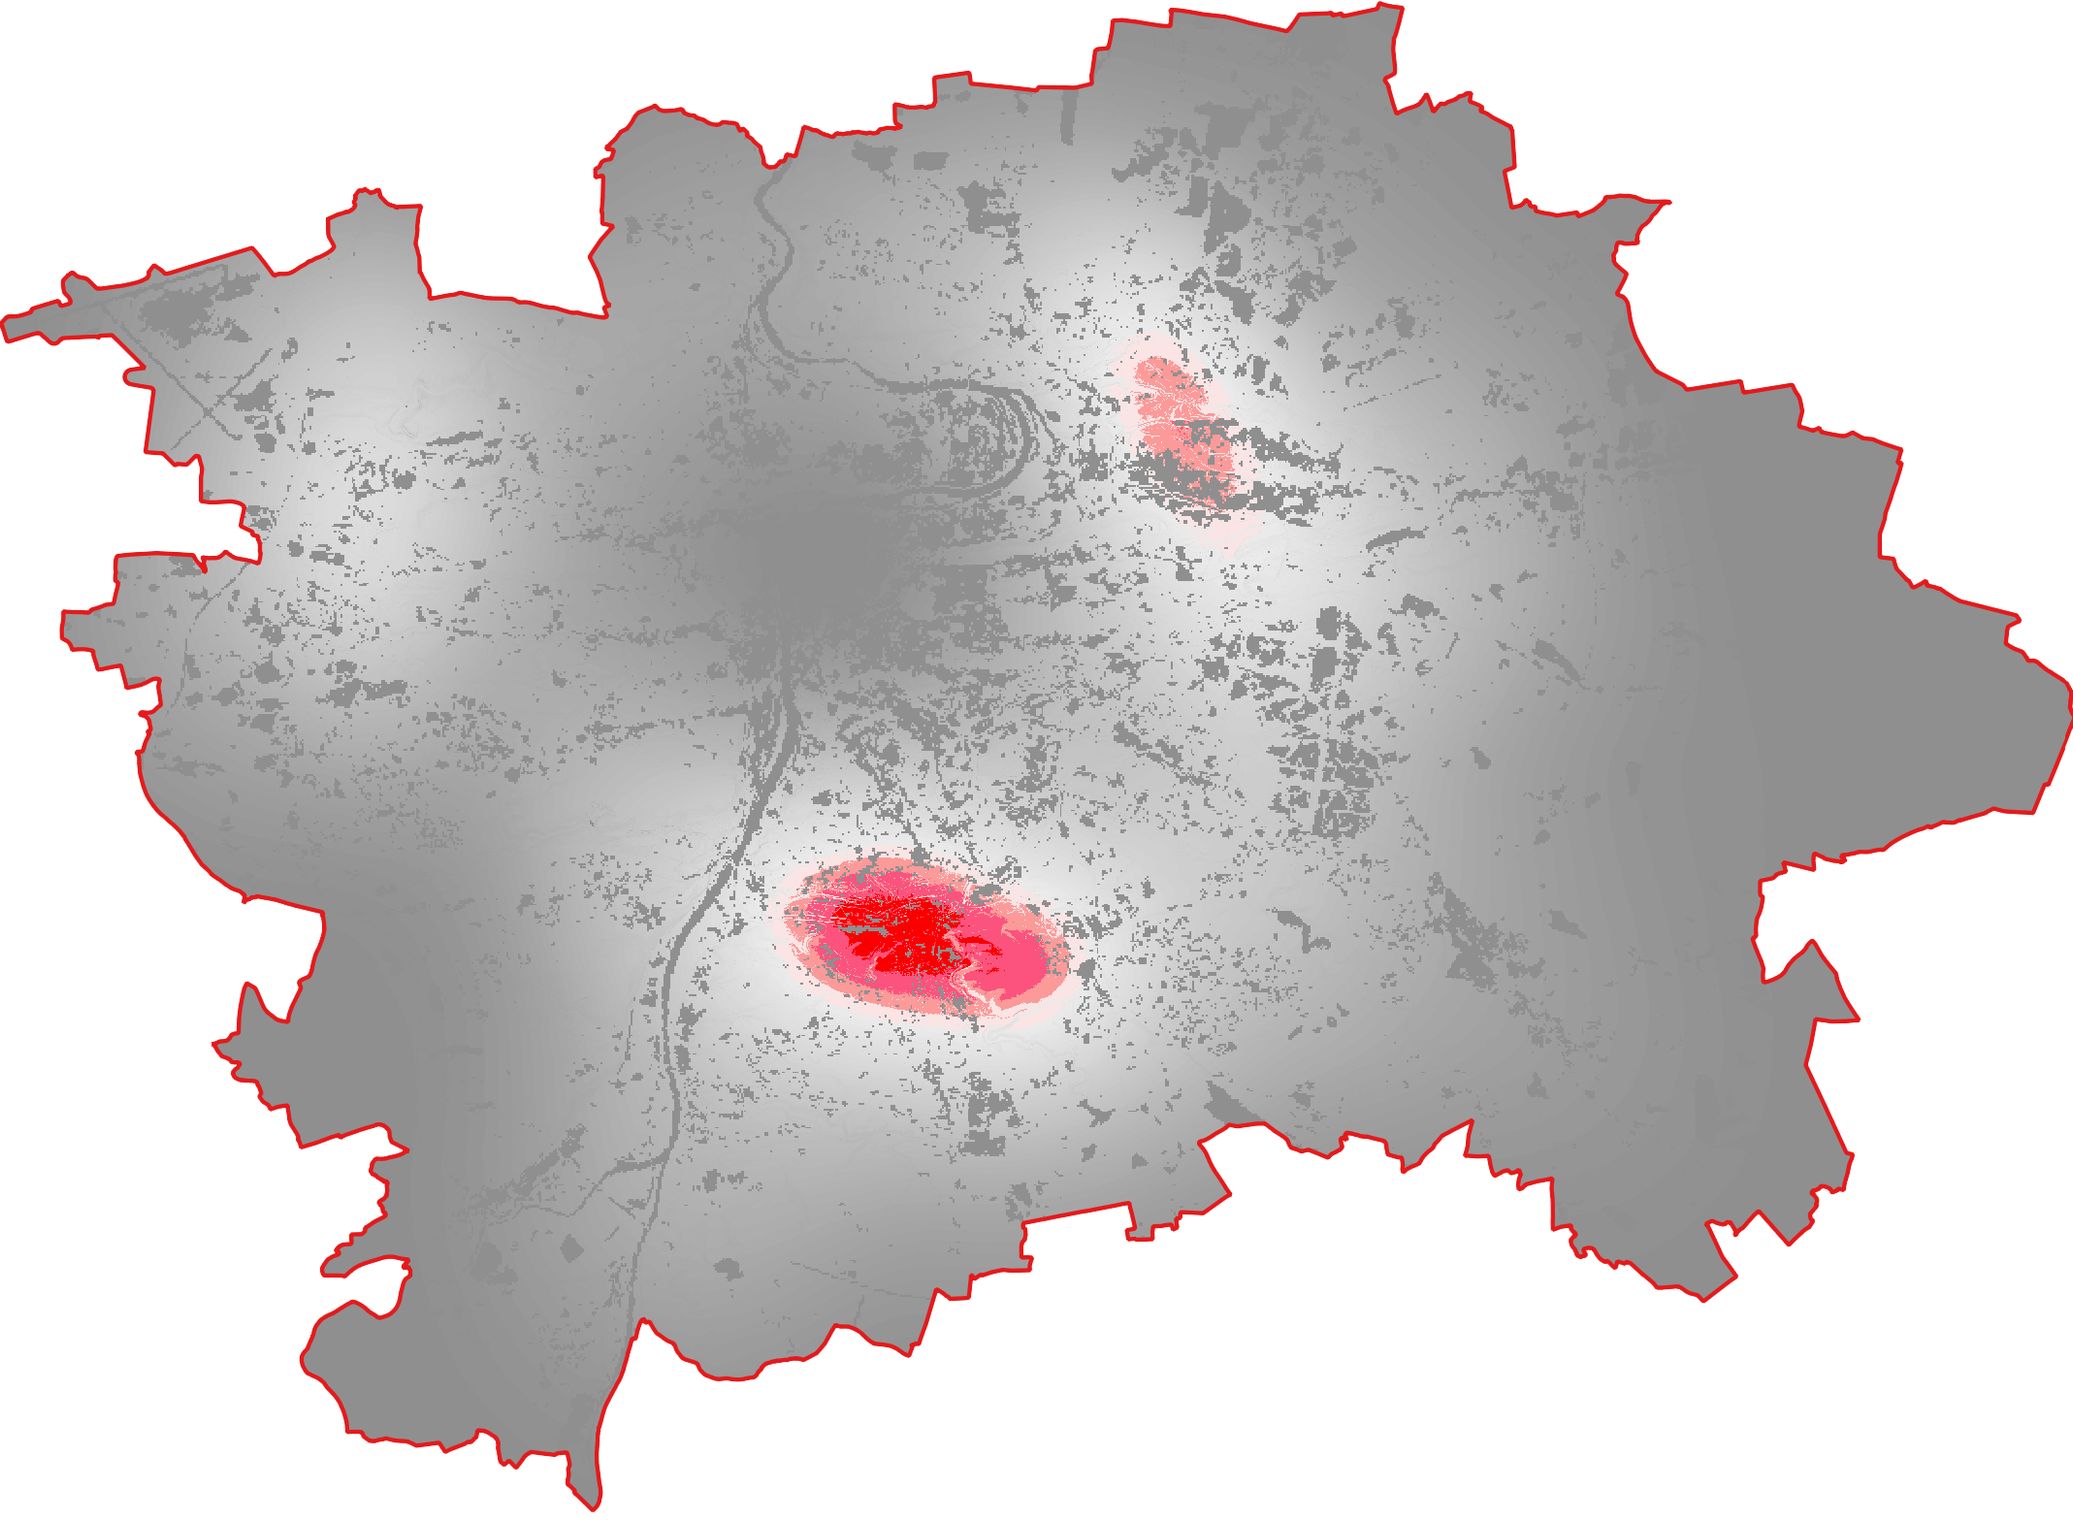
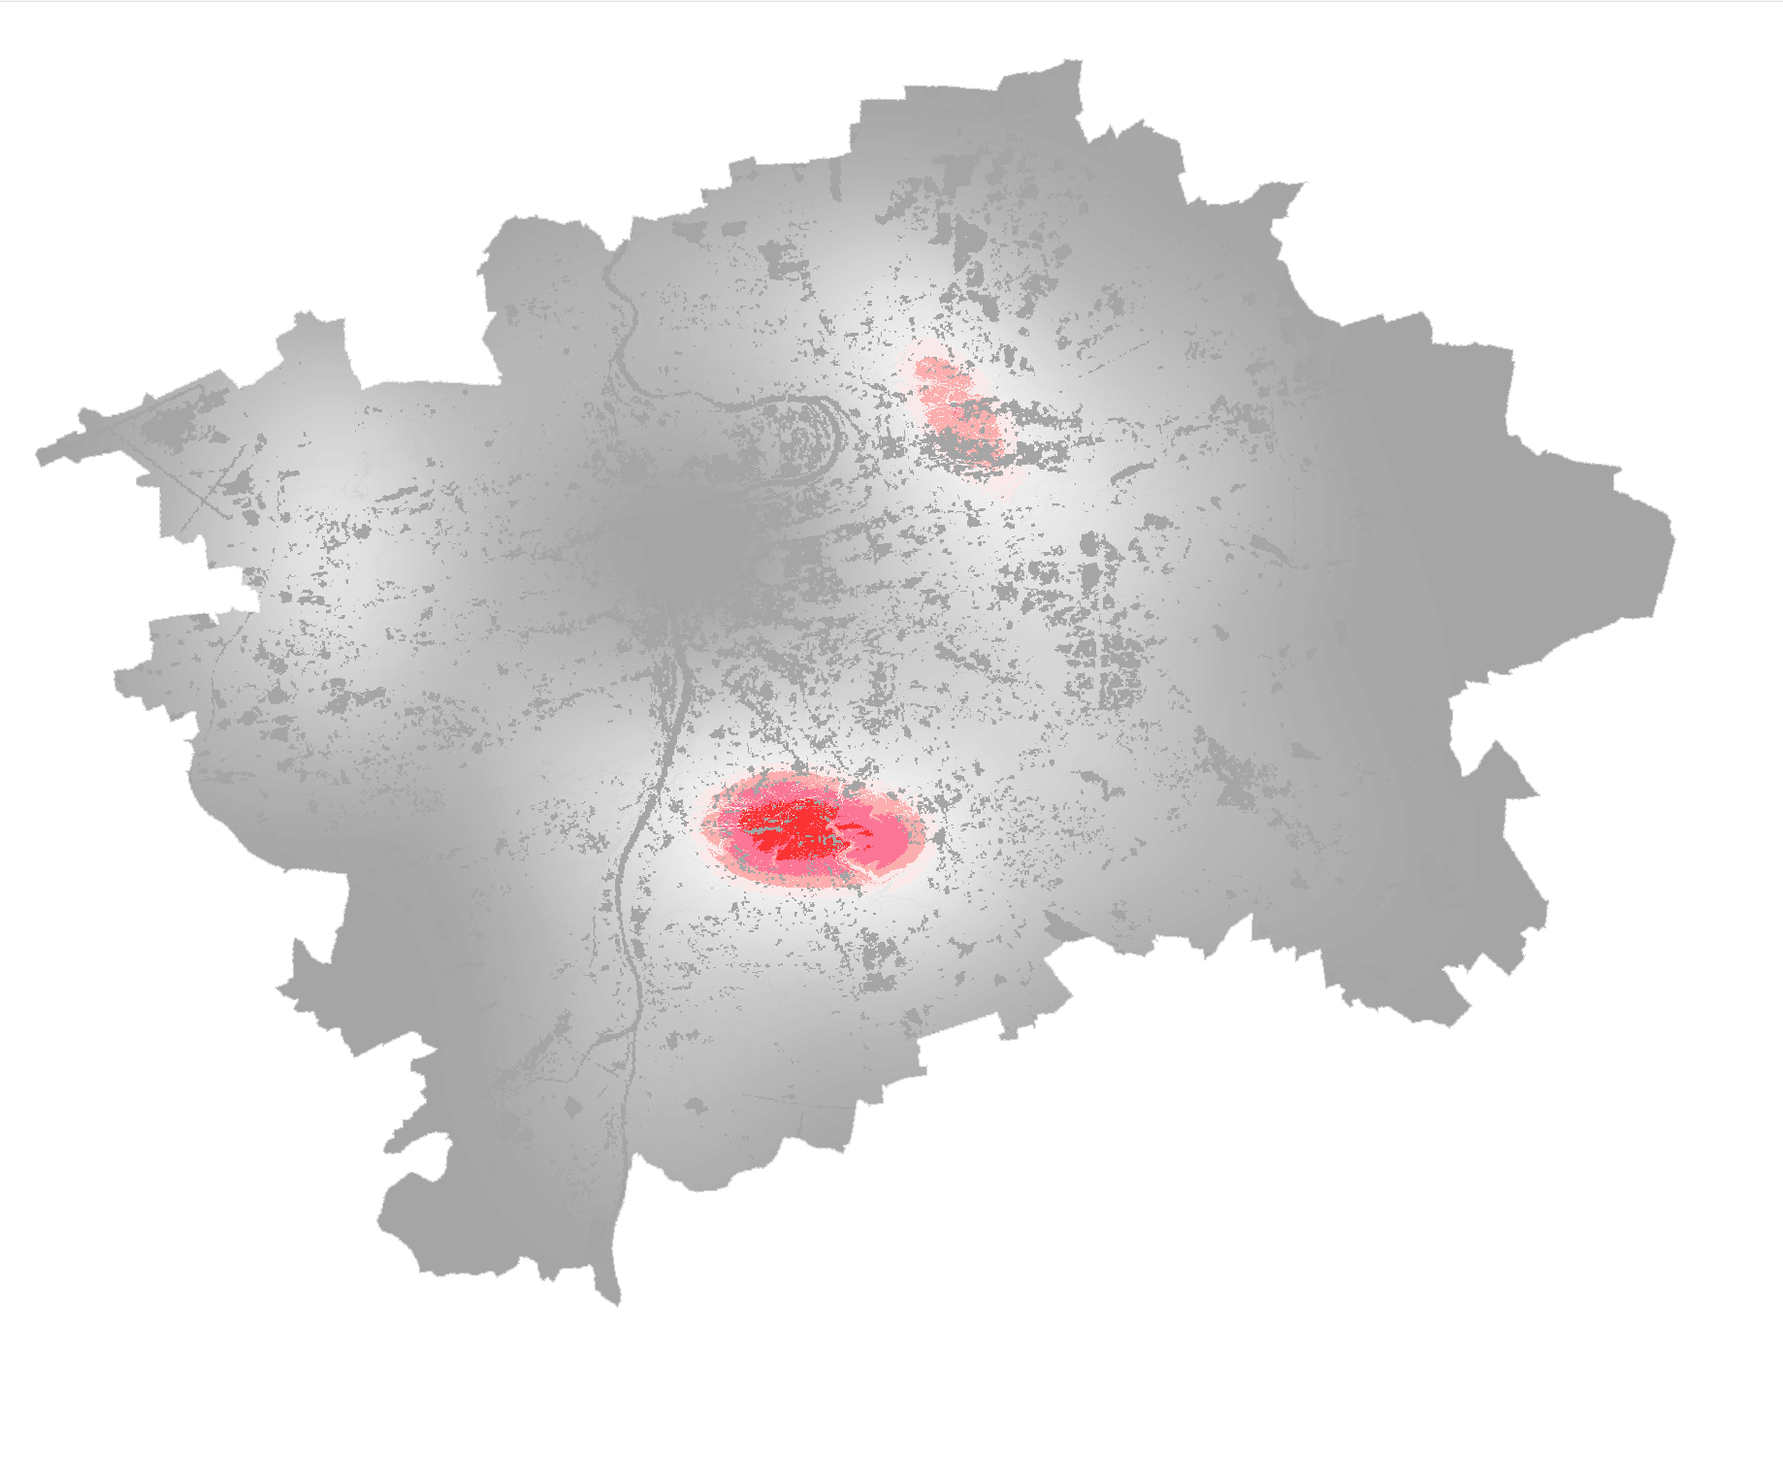
Case study extension

diff --git a/case.html b/case.html
@@ -107,6 +107,10 @@
           border-width: 0 2px 2px 0;
           transform: rotate(135deg);
         }
+        hr.solid {
+          border-top: 3px solid #bbb;
+          margin: 4em ;
+        }
         </style>
     </head>
 
@@ -116,46 +120,212 @@
                 <span class="spinner-rotate"></span>
             </div>
         </section>
+
         <div class="container">
           <h1 style="margin: 0.5em;">Case study: determining the best locations for a football stadium in Prague</h1>
+          <img src='images/case/thumb-case.png' style='width:100%; border-radius: var(--border-radius-small);'>
+        </div>
+        <hr class="solid">
+
+        <div class="container">
+          <h3 style="margin: 0.5em;">: Aim</h3>
         </div>
         <div class="container">
-            <div class="row">
+          <p>Case study: determining the best locations for a football stadium in a city of your choice</p>
+          <ul>
+            <li>Extracting geometrical data of buildings, streets or other infrastructure from a remote sensing image</li>
+            <li>Extracting location data of people or activities from big data sources (e.g. social media, traffic data, google API)</li>
+            <li>Based on 2-3 criteria, suggest a couple of locations for a football stadium</li>
+            <li>Visualize the output on a map and diagram</li>
+            <li>Visualize the output on a web-based interface</li>
+          </ul>
+        </div>
+        <hr class="solid">
 
-              <div class="col-lg-8">
-                  <div class='container' id="container-slider">
-                    <div class='img background-img' style="background-image: url('images/case/remote-sensing.png');"></div>
-                    <div class='img foreground-img' style="background-image: url('images/case/sentinel.png');width: 50%;"></div>
-                    <input type="range" min="1" max="100" value="50" class="slider" name='slider' id="slider">
-                    <div class='slider-button'></div>
-                  </div>
-              </div>
+        <div class="container">
+          <h3 style="margin: 0.5em;">: Workflow</h3>
+        </div>
+        <div class="container">
+          <img src='images/case/rs-work-flow.svg' style='width:100%; border-radius: var(--border-radius-small);'>
+        </div>
+        <hr class="solid">
 
-              <div class="col-lg-4" style="margin-top: 3em;">
-                <h3 style="margin-left: 1em;">False Color Urban RGB Composite</h1>
-                <p style="margin-left: 2em;">
-                  Data Source: Sentinel-2
-                </p>
-                <p style="margin-left: 2em;">
-                  This composite is used to visualize urbanized areas more clearly. Vegetation is visible in shades of green, while urbanized areas are represented by white, grey, or purple. [<a target="_blank" href="https://custom-scripts.sentinel-hub.com/sentinel-2/false-color-urban-rgb/">1</a>]
-                </p>
-                <p style="margin-left: 2em;">
-                  The composite:
-                  [2.5 * B12, 2.5 * B11, 2.5 * B4]
-                </p>
-                <ul style="margin-left: 2em;">
-                  <li>Band 4 - Red	0.665 (µm)</li>
-                  <li>Band 11 - SWIR 1.610 (µm)</li>
-                  <li>Band 12 - SWIR 2.190 (µm)</li>
-                </ul>
-              </div>
+        <div class="container">
+          <h3 style="margin: 0.5em;">: Data : Source : Tech</h3>
+        </div>
+        <div class="container">
+          <div class="row">
+            <div class="col-lg-6">
+              <ul>
+                <li>Satelite imagery (Sentinel-2)</li>
+                <li>Administrative boundaries</li>
+                <li>DEM</li>
+                <li>Infrastructure, POIs</li>
+                <li>Demographics</li>
+              </ul>
+              <ul>
+                <li><a href="https://apps.sentinel-hub.com/eo-browser">EO browser</a></li>
+                <li><a href="https://www.openstreetmap.org/">OpenStreetMap</a></li>
+                <li><a href="https://www.geoportalpraha.cz/en">Geoportal Prague</a></li>
+                <li><a href="https://developers.google.com/apis-explorer">Google API</a></li>
+              </ul>
+              <ul>
+                <li>desktop: QGIS, Photoshop</li>
+                <li>code: Python, JavaScript, HTML, CSS</li>
+                <li>API / Query modules: Places API (Google), OSMnx</li>
+              </ul>
+              <img src='images/case/osm-query.png' style='width:100%; margin-top: 0.8em; border-radius: var(--border-radius-small);'>
+            </div>
+            <div class="col-lg-6">
+              <img src='images/case/api-places.png' style='width:100%; border-radius: var(--border-radius-small);'>
+            </div>
+          </div>
+        </div>
+        <hr class="solid">
+
+        <div class="container">
+          <h3 style="margin: 0.5em;">: LULC Classification</h3>
+        </div>
+        <div class="container">
+          <div class="row">
+
+            <div class="col-lg-8">
+                <div class='container' id="container-slider">
+                  <div class='img background-img' style="background-image: url('images/case/remote-sensing.png');"></div>
+                  <div class='img foreground-img' style="background-image: url('images/case/sentinel.png');width: 50%;"></div>
+                  <input type="range" min="1" max="100" value="50" class="slider" name='slider' id="slider">
+                  <div class='slider-button'></div>
+                </div>
+            </div>
+
+            <div class="col-lg-4" style="margin-top: 3em;">
+              <h3 style="margin-left: 1em;">Supervised classification</h1>
+              <p style="margin-left: 2em;">
+                in remote sensing is a method of automatically categorizing pixels in a satellite or aerial image into different land cover or land use classes based on known training samples. It involves defining a set of sample classes, each with a known land cover or land use type, and using this information to train a classifier. The classifier is then applied to the entire image, using the training data to make predictions about the land cover or land use of each pixel in the image.
+              </p>
+              <p style="margin-left: 2em;">
+                <strong>False Color Urban RGB Composite:</strong> is used to visualize urbanized areas more clearly. Vegetation is visible in shades of green, while urbanized areas are represented by white, grey, or purple. [<a target="_blank" href="https://custom-scripts.sentinel-hub.com/sentinel-2/false-color-urban-rgb/">1</a>]
+              </p>
+              <ul style="margin-left: 2em;">
+                <li>Band 4 - Red	0.665 (µm)</li>
+                <li>Band 11 - SWIR 1.610 (µm)</li>
+                <li>Band 12 - SWIR 2.190 (µm)</li>
+              </ul>
+            </div>
+
+          </div>
+        </div>
+        <hr class="solid">
+
+
+        <div class="container">
+          <h3 style="margin: 0.5em;">: MCDA</h3>
+        </div>
+        <div class="container">
+          <div class="row">
+            <div class="col-lg-8">
+              <figure>
+                <img src='images/case/diagram.png' style='width:100%; border-radius: var(--border-radius-small);'>
+                <figcaption style="text-align: center;">Restricting factors: Urban, Water; Criteria: Slope, Schools, Stadiums, Transport</figcaption>
+              </figure>
+            </div>
+
+            <div class="col-lg-4" style="margin-top: 3em;">
+              <p style="margin-left: 2em;">
+                Multi-Criteria Decision Analysis (MCDA) is a systematic process for evaluating multiple options based on a set of criteria. The process involved clearly defining the decision problem and identifying the relevant criteria, which in this case were Urban areas, Water, Slope, Schools, Stadiums, and Transport. This data was then normalized to make it comparable, which was done by converting it into a standard format. The importance of each criteria was then assigned based on its significance to the decision problem. Final result was calculated using map algebra.
+              </p>
+
+              <h3 style="margin-left: 1em;">Heatmap (kernel density)</h1>
+              <p style="margin-left: 2em;">
+                A geospatial heatmap is a type of heatmap that is used to display data values on a geographical map. It is a way to represent the spatial distribution of data values by using different colors to represent different ranges of values. The heatmap provides a graphical representation of data values by using different colors to represent different ranges of values.
+              </p>
+
+              <h3 style="margin-left: 1em;">Raster normalization</h1>
+              <p style="margin-left: 2em;">
+                is a process used to standardize the values of a raster dataset. Normalization is applied to adjust the range of values in the raster data to a standard scale, making it easier to compare and perform mathematical operations with different raster datasets.
+                In raster normalization, the values of a raster image are transformed so that they fall within a specific range, such as 0 to 1 or -1 to 1. This is done by subtracting the minimum value of the raster dataset from each cell, and then dividing by the range, which is calculated as the difference between the maximum and minimum values.
+              </p>
+
+              <h3 style="margin-left: 1em;">Map algebra</h1>
+              <p style="margin-left: 2em;">
+                is a tool in geographic information systems (GIS) that allows for the integration of multiple data layers to make decisions. In a MCDA, map algebra is used to analyze multiple criteria, such as accessibility, water sources, and slopes, and to make a final decision on the best alternative. The process involves normalizing and weighting the criteria, combining them into a single map, evaluating alternatives, making a decision, and monitoring it. Map algebra makes the MCDA process more efficient and consistent.
+              </p>
 
             </div>
-        </div>
-        <div class="container">
+          </div>
+
           <div class="col-12">
               <div id="map-case"></div>
           </div>
+          <div class="container">
+            <div style="text-align: center;">
+              <input  type="range" id="sldOpacity" min="0", max="1", step="0.1" value="0.5">
+            </div>
+          </div>
+        </div>
+        <hr class="solid">
+
+        <div class="container">
+          <h3 style="margin: 0.5em;">: Site</h3>
+        </div>
+        <div class="container">
+          <div class="row">
+            <div class="col-lg-8">
+              <p>Krč is a district in the south of Prague, located in Prague 4. It became part of the city in 1922. It has 23 560 inhabitants. It is home of one of the mmost famous football club - SK Sparta Krč</p>
+              <p>Krč is served by line C of the Prague Metro. Pankrác, Budějovická and Kačerov stations all have onward bus connections to Krč. The planned line D of the Prague Metro will pass through Krč</p>
+                <img src='images/case/site-detail.png' style='width:100%; border-radius: var(--border-radius-small);'>
+            </div>
+            <div class="col-lg-4">
+              <div style="margin-left: 1em;">
+                  <img src='images/case/demographics.png' style='width:80%; border-radius: var(--border-radius-small);'>
+                  <h4 style="margin-top: 2em";>Parcel price estimation</h4>
+                  <p>30 000 000 € (160 € / m2)</p>
+                  <img src='images/case/parcel-area.png' style='width:80%; border-radius: var(--border-radius-small);'>
+              </div>
+            </div>
+          </div>
+          <div class="row">
+            <div class="col-lg-12" style="margin-top:2em;">
+              <img src='images/case/3D_grey.jpg' style='width:100%; border-radius: var(--border-radius-small);'>
+            </div>
+          </div>
+        </div>
+        <hr class="solid">
+
+        <div class="container">
+          <h3 style="margin: 0.5em;">: To be imporved</h3>
+        </div>
+        <div class="container" style="margin-bottom: 5em;">
+          <h4 style="margin-top: 2em";>Remote-sensing techniques</h4>
+          <ul>
+            <li>Better resolution</li>
+            <li>Data pre-processing</li>
+            <li>More suiteble band combination</li>
+            <li>More sofisticated classification / segmantation</li>
+          </ul>
+          <img src='images/case/rs-improve.svg' style='width:100%;'>
+
+          <h4 style="margin-top: 2em";>Criteria</h4>
+            <ul>
+              <li>Urban development experties</li>
+              <li>Well-defined problem and relevant criteria</li>
+              <li>Quantifiable and measurable criteria</li>
+              <li>Accurate and up-to-date data</li>
+              <li>Stakeholder involvement</li>
+              <li>Systematic weighting method</li>
+              <li>Transparent methodology</li>
+              <li>Continuous monitoring and revision.</li>
+            </ul>
+          <h4 style="margin-top: 2em";>Web presentation</h4>
+            <ul>
+              <li>Use visual aids</li>
+              <li>Simplify data & use clear language</li>
+              <li>Choose the right format</li>
+              <li>Make use of interactivity</li>
+              <li>Use color effectively</li>
+              <li>Use responsive design</li>
+              <li>Test and iterate to improve presentation.</li>
+            </ul>
         </div>
 
         <footer class="site-footer">
@@ -182,5 +352,12 @@
         <script src="https://unpkg.com/leaflet@1.9.3/dist/leaflet.js" integrity="sha256-WBkoXOwTeyKclOHuWtc+i2uENFpDZ9YPdf5Hf+D7ewM=" crossorigin=""></script>
         <script src="js/map-case.js"></script>
         <script src="js/tiles.js"></script>
+        <script>
+          $(document).ready(function(){
+            $('#sldOpacity').change(function() {
+                imageOverlay.setOpacity(this.value);
+              });
+          })
+        </script>
     </body>
 </html>

diff --git a/js/map-case.js b/js/map-case.js
@@ -1,4 +1,4 @@
-var mapCase = L.map('map-case').setView([50.073658, 14.418540], 11);
+var mapCase = L.map('map-case').setView([50.054658, 14.458540], 11);
 
 L.tileLayer('https://tile.openstreetmap.org/{z}/{x}/{y}.png', {
     maxZoom: 19,
@@ -26,38 +26,18 @@ var greyIcon = new L.Icon({
 // var greenIcon = new LeafIcon({iconUrl: 'leaf-green.png'});
 // var greyIcon = new LeafIcon({iconUrl: 'leaf-grey.png'});
 
-var marker = L.marker([52.5200, 13.4050], {icon: greenIcon}).addTo(mapCase).bindPopup("SITE 1"); // site1
-var marker = L.marker([49.1951, 16.6068], {icon: greyIcon}).addTo(mapCase).bindPopup("SITE 2"); // site2
-
-var border = { "type": "Feature", "properties": { "NAME": "KLATOVY" }, "geometry": { "type": "Polygon", "coordinates": [ [ [ 13.28394, 49.39119 ], [ 13.28178, 49.39256 ], [ 13.27894, 49.39225 ], [ 13.27492, 49.39847 ], [ 13.27136, 49.39906 ], [ 13.26764, 49.39967 ], [ 13.266, 49.39994 ], [ 13.26569, 49.40189 ], [ 13.26564, 49.40225 ], [ 13.27542, 49.41175 ], [ 13.27664, 49.41536 ], [ 13.27931, 49.41428 ], [ 13.27806, 49.40564 ], [ 13.27994, 49.40414 ], [ 13.28375, 49.40619 ], [ 13.2865, 49.40675 ], [ 13.29558, 49.40858 ], [ 13.29606, 49.40867 ], [ 13.29831, 49.40483 ], [ 13.30675, 49.4002 ], [ 13.30706, 49.39742 ], [ 13.30403, 49.39578 ], [ 13.30525, 49.38972 ], [ 13.30092, 49.38694 ], [ 13.29894, 49.38567 ], [ 13.29881, 49.38558 ], [ 13.29675, 49.38428 ], [ 13.29747, 49.38297 ], [ 13.30119, 49.37619 ], [ 13.30025, 49.37442 ], [ 13.29969, 49.37439 ], [ 13.29669, 49.37417 ], [ 13.29469, 49.37981 ], [ 13.28989, 49.38055 ], [ 13.28778, 49.38528 ], [ 13.29006, 49.38653 ], [ 13.28822, 49.38847 ], [ 13.28394, 49.39119 ] ] ] } }
+var marker = L.marker([50.030294,14.440091], {icon: greenIcon}).addTo(mapCase).bindPopup("Address: U Krčkého nádraží, 140 00 Praha 4, Czechia"); // site1
 
 
-function getColor(d) {
-    if (d == 'KLATOVY') {
-      return '#800026';
-    } else { return '#FFEDA0';}
-}
-function style(feature) {
-    return {
-        fillColor: getColor(feature.properties.NAME),
-        weight: 2,
-        opacity: 1,
-        color: 'white',
-        dashArray: '3',
-        fillOpacity: 0.7
-    };
-}
 
-L.geoJson(border, {style: style}).addTo(mapCase);
-
-var imageUrl = 'images/case/mcda-map4.png';
+var imageUrl = 'images/case/mcda-map.png';
 var errorOverlayUrl = 'https://cdn-icons-png.flaticon.com/512/110/110686.png';
 var altText = 'MCDA result';
 var latLngBounds = L.latLngBounds([[50.1881128, 14.2137163], [49.912771, 14.7392248]]);
 
 
 var imageOverlay = L.imageOverlay(imageUrl, latLngBounds, {
-    opacity: 0.5,
+    opacity: 1,
     errorOverlayUrl: errorOverlayUrl,
     alt: altText,
     interactive: false
